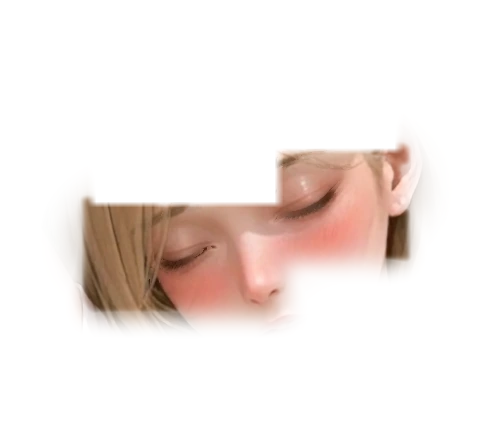
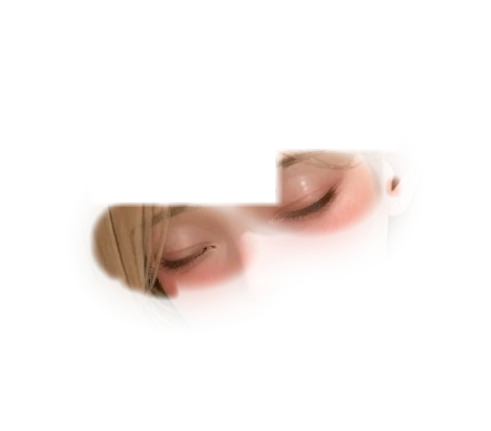
Мимика: маска веки — овалы вместо прямоугольников
Прямоугольное ядро + прямоугольный ограничитель маски тёмных пикселей
накрывали щёку и лоб непрозрачным куском генерата: тон у него чуть иной,
чем у арта, и в кадре это читалось полупрозрачным серым квадратом, а лицо
«меняло цвет» при моргании. Теперь ядро и ограничитель — овалы по глазу,
растушёвка узкая (1.18x/1.30x бокса), окно патча с запасом.

Changed region(s): [[0.1222, 0.3318, 0.8554, 0.7842], [0.4277, 0.4524, 0.4888, 0.5128]]

diff --git a/tools/prep_eyes.py b/tools/prep_eyes.py
@@ -306,18 +306,22 @@ def build(day, tag, mood, debug=False):
 
     # Ядро — по каждому глазу почти в полную силу: иначе закрытые веки
     # ложатся поверх открытых с альфой ~0.4 и моргания не видно вообще.
+    eh_hard = max((b[3] - b[1]) for b in EYES[key]) * th
     hard = Image.new('L', (tw, th), 0)
     dh = ImageDraw.Draw(hard)
     for b in EYES[key]:
         e = (b[0] * tw, b[1] * th, b[2] * tw, b[3] * th)
         ew_, eh_ = e[2] - e[0], e[3] - e[1]
-        # Низ расширяем: под глазом остаётся тёмная линия нижних ресниц, и в
-        # растушёвке она просвечивала чёрными точками на закрытом веке.
-        dh.rectangle([e[0] - ew_ * 0.30, e[1] - eh_ * 0.10,
-                      e[2] + ew_ * 0.30, e[3] + eh_ * 0.60], fill=255)
+        # ЯДРО — ОВАЛ ПО ГЛАЗУ, а не прямоугольник. Прямоугольник (было
+        # 0.30ew/0.60eh) накрывал щёку и лоб непрозрачным куском генерата: тон
+        # у него чуть иной, чем у арта, и в кадре это читалось полупрозрачным
+        # серым квадратом, а лицо «меняло цвет» при моргании.
+        cx, cy = (e[0] + e[2]) / 2, (e[1] + e[3]) / 2 + eh_ * 0.04
+        rx, ry = ew_ * 0.60, eh_ * 0.66
+        dh.ellipse([cx - rx, cy - ry, cx + rx, cy + ry], fill=255)
     # кромку ядра растушёвываем сильнее: при 2 px на коже была видна прямая
     # граница прямоугольника («стеклянная плашка» над глазом)
-    hard = hard.filter(ImageFilter.GaussianBlur(5 * S))
+    hard = hard.filter(ImageFilter.GaussianBlur(max(2.0, eh_hard * 0.10)))
     # Растушёвка — ВОКРУГ КАЖДОГО ГЛАЗА, а не общим овалом на всю полосу:
     # у наклонённой головы в полосу попадает бровь, и её смещённая копия из
     # генерата ложилась второй дугой над веком.
@@ -326,10 +330,14 @@ def build(day, tag, mood, debug=False):
     for b in EYES[key]:
         e = (b[0] * tw, b[1] * th, b[2] * tw, b[3] * th)
         cx, cy = (e[0] + e[2]) / 2, (e[1] + e[3]) / 2
-        rx, ry = (e[2] - e[0]) / 2 * 1.70, (e[3] - e[1]) / 2 * 1.55
+        # Овал держим ВПЛОТНУЮ к глазу: раньше он был 1.7x/1.55x и полупрозрачной
+        # растушёвкой накрывал щёку и лоб. Тон генерата чуть иной, чем у арта, и
+        # в кадре это читалось полупрозрачным серым прямоугольником, а лицо
+        # «меняло цвет» на моргании.
+        rx, ry = (e[2] - e[0]) / 2 * 1.18, (e[3] - e[1]) / 2 * 1.30
         ds.ellipse((cx - rx, cy - ry, cx + rx, cy + ry), fill=255)
-    soft = soft.filter(ImageFilter.GaussianBlur(max(3, int(min(B[2] - B[0], B[3] - B[1]) * 0.09))))
-    alpha = Image.fromarray(np.maximum(np.array(hard), (np.array(soft) * 0.62).astype('uint8')), 'L')
+    soft = soft.filter(ImageFilter.GaussianBlur(max(2.0, eh_hard * 0.35)))
+    alpha = Image.fromarray(np.maximum(np.array(hard), (np.array(soft) * 0.80).astype('uint8')), 'L')
 
     # Гарантия «старого глаза не видно»: там, где в арте лежит тёмный зрачок,
     # ресницы или зелёная радужка, альфа — полная. Иначе у наклонённого глаза
@@ -339,12 +347,16 @@ def build(day, tag, mood, debug=False):
     lum_ = ra_.mean(axis=2)
     grn_ = (ra_[..., 1] > ra_[..., 0] + 4) & (ra_[..., 1] > ra_[..., 2] + 4)
     eye_px = ((lum_ < 118) | grn_).astype('uint8') * 255
+    # Ограничитель — ОВАЛ по глазу (был прямоугольник: вместе с маской тёмных
+    # пикселей он давал непрозрачные прямоугольные куски вокруг глаз, которые
+    # в кадре читались серым квадратом).
     box_only = np.zeros((th, tw), dtype='uint8')
     for b in EYES[key]:
         e = (b[0] * tw, b[1] * th, b[2] * tw, b[3] * th)
         ew_, eh_ = e[2] - e[0], e[3] - e[1]
-        cv2.rectangle(box_only, (int(e[0] - ew_ * 0.30), int(e[1] - eh_ * 0.10)),
-                      (int(e[2] + ew_ * 0.30), int(e[3] + eh_ * 0.50)), 255, -1)
+        cx, cy = (e[0] + e[2]) / 2, (e[1] + e[3]) / 2
+        cv2.ellipse(box_only, (int(cx), int(cy)), (int(ew_ * 0.72), int(eh_ * 0.80)),
+                    0, 0, 360, 255, -1)
     eye_px = cv2.bitwise_and(eye_px, box_only)
     kn = max(3, int(round(5 * S)))
     eye_px = cv2.dilate(eye_px, np.ones((kn, kn), 'uint8'))
